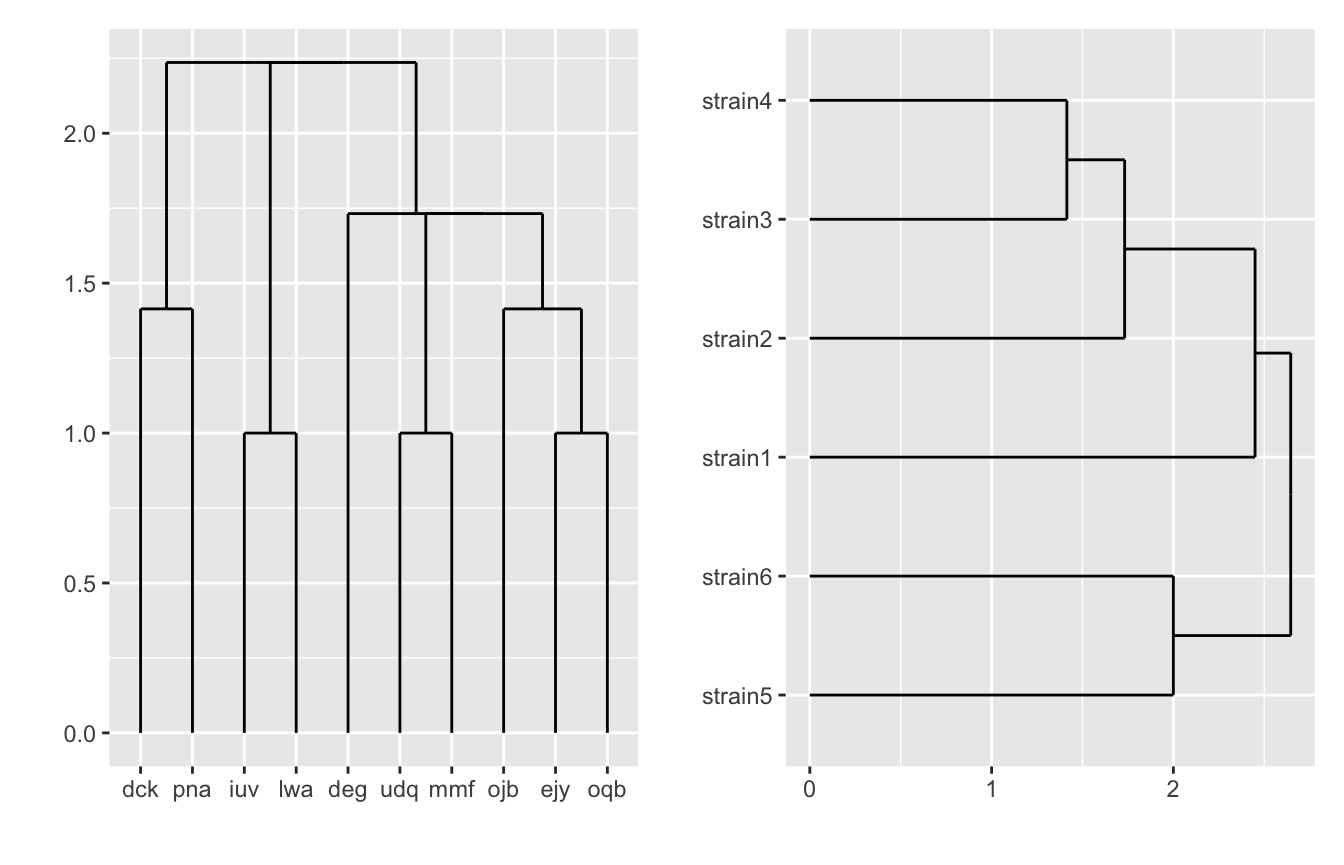
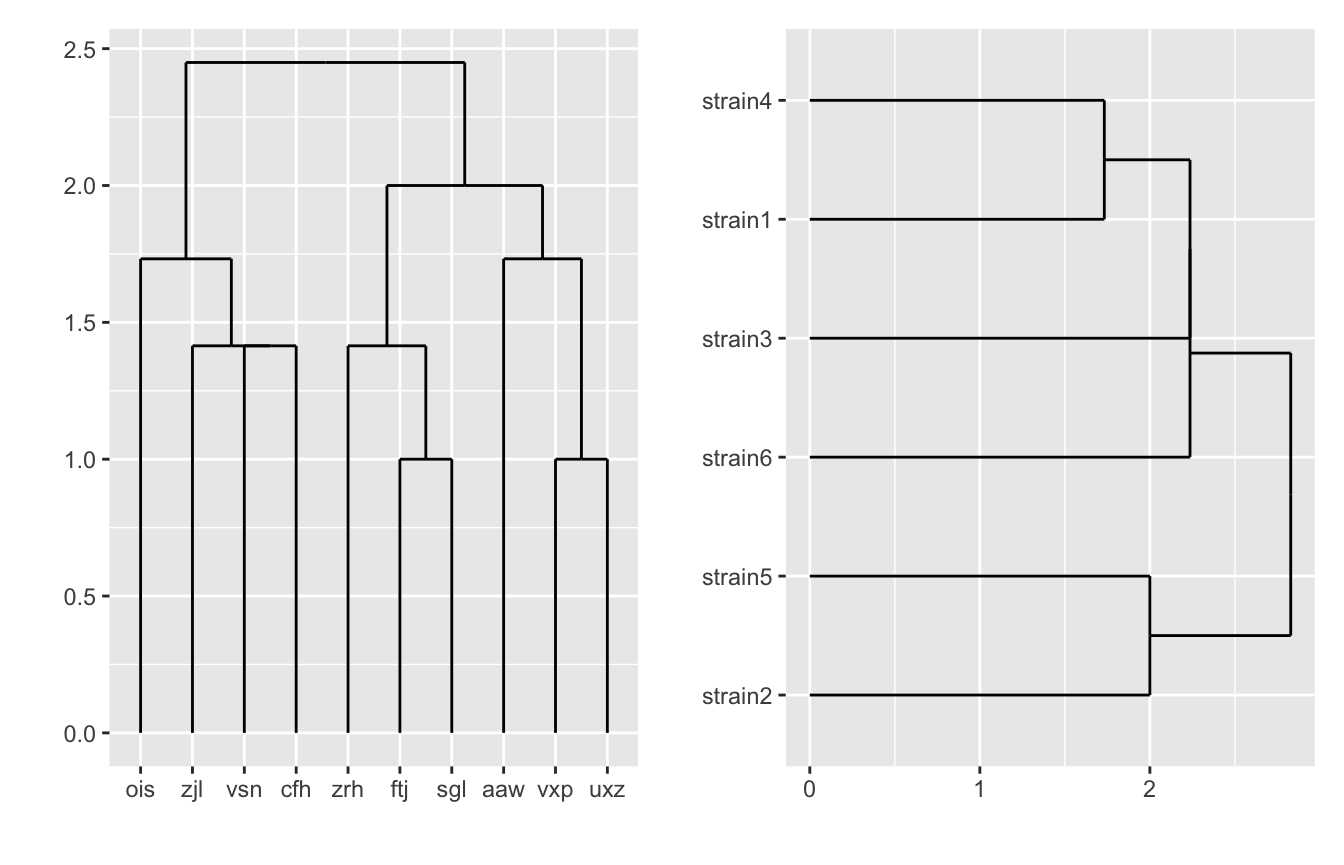
Built site for dendrolenda: 0.1.0@77b6720

diff --git a/articles/overview.html b/articles/overview.html
@@ -88,12 +88,12 @@
 <a href="#dendrolenda-package-usage" class="anchor"></a>dendrolenda package usage</h1>
 <p>Let’s plot heatmap with aligned dendrograms using the following randomly generated data:</p>
 <pre><code>##   gene  strain value
-## 1  ejy strain1     1
-## 2  iuv strain1     1
-## 3  dck strain1     0
-## 4  udq strain1     0
-## 5  oqb strain1     1
-## 6  mmf strain1     1</code></pre>
+## 1  vsn strain1     1
+## 2  vxp strain1     0
+## 3  ftj strain1     1
+## 4  cfh strain1     1
+## 5  aaw strain1     0
+## 6  sgl strain1     1</code></pre>
 <p>Create dendrograms:</p>
 <div class="sourceCode" id="cb2"><pre class="downlit">
 <span class="kw">d1</span> <span class="op">&lt;-</span> <span class="fu">create_dend</span>(<span class="kw">dat</span>, <span class="st">"gene"</span>, <span class="st">"strain"</span>)

diff --git a/index.html b/index.html
@@ -71,6 +71,8 @@
 
       </header><div class="row">
   <div class="contents col-md-9">
+
+<p><img src="https://github.com/michbur/dendrolenda/workflows/check/badge.svg" alt="check"></p>
 <div id="dendrolenda" class="section level1">
 <div class="page-header"><h1 class="hasAnchor">
 <a href="#dendrolenda" class="anchor"></a>dendrolenda</h1></div>
@@ -100,6 +102,7 @@
 </pre></div>
 </div>
 </div>
+
   </div>
 
   <div class="col-md-3 hidden-xs hidden-sm" id="pkgdown-sidebar">
